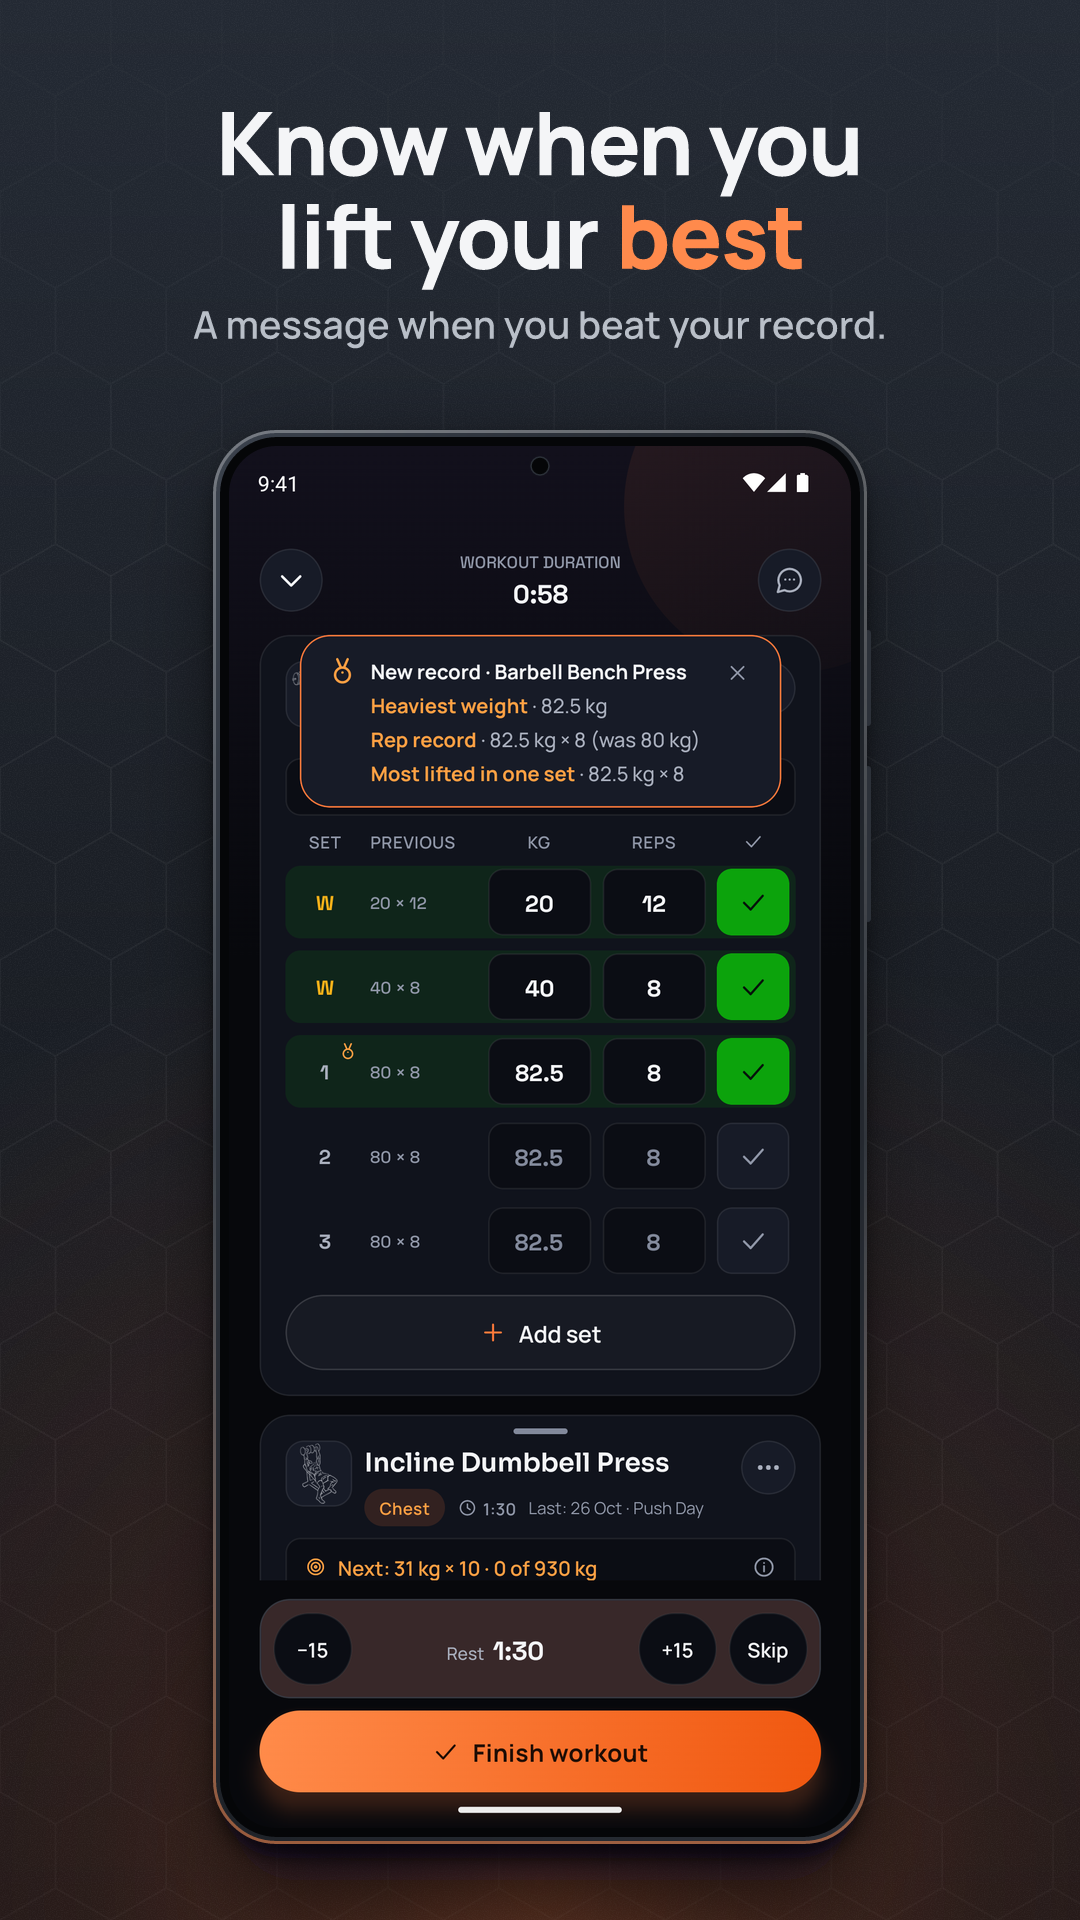
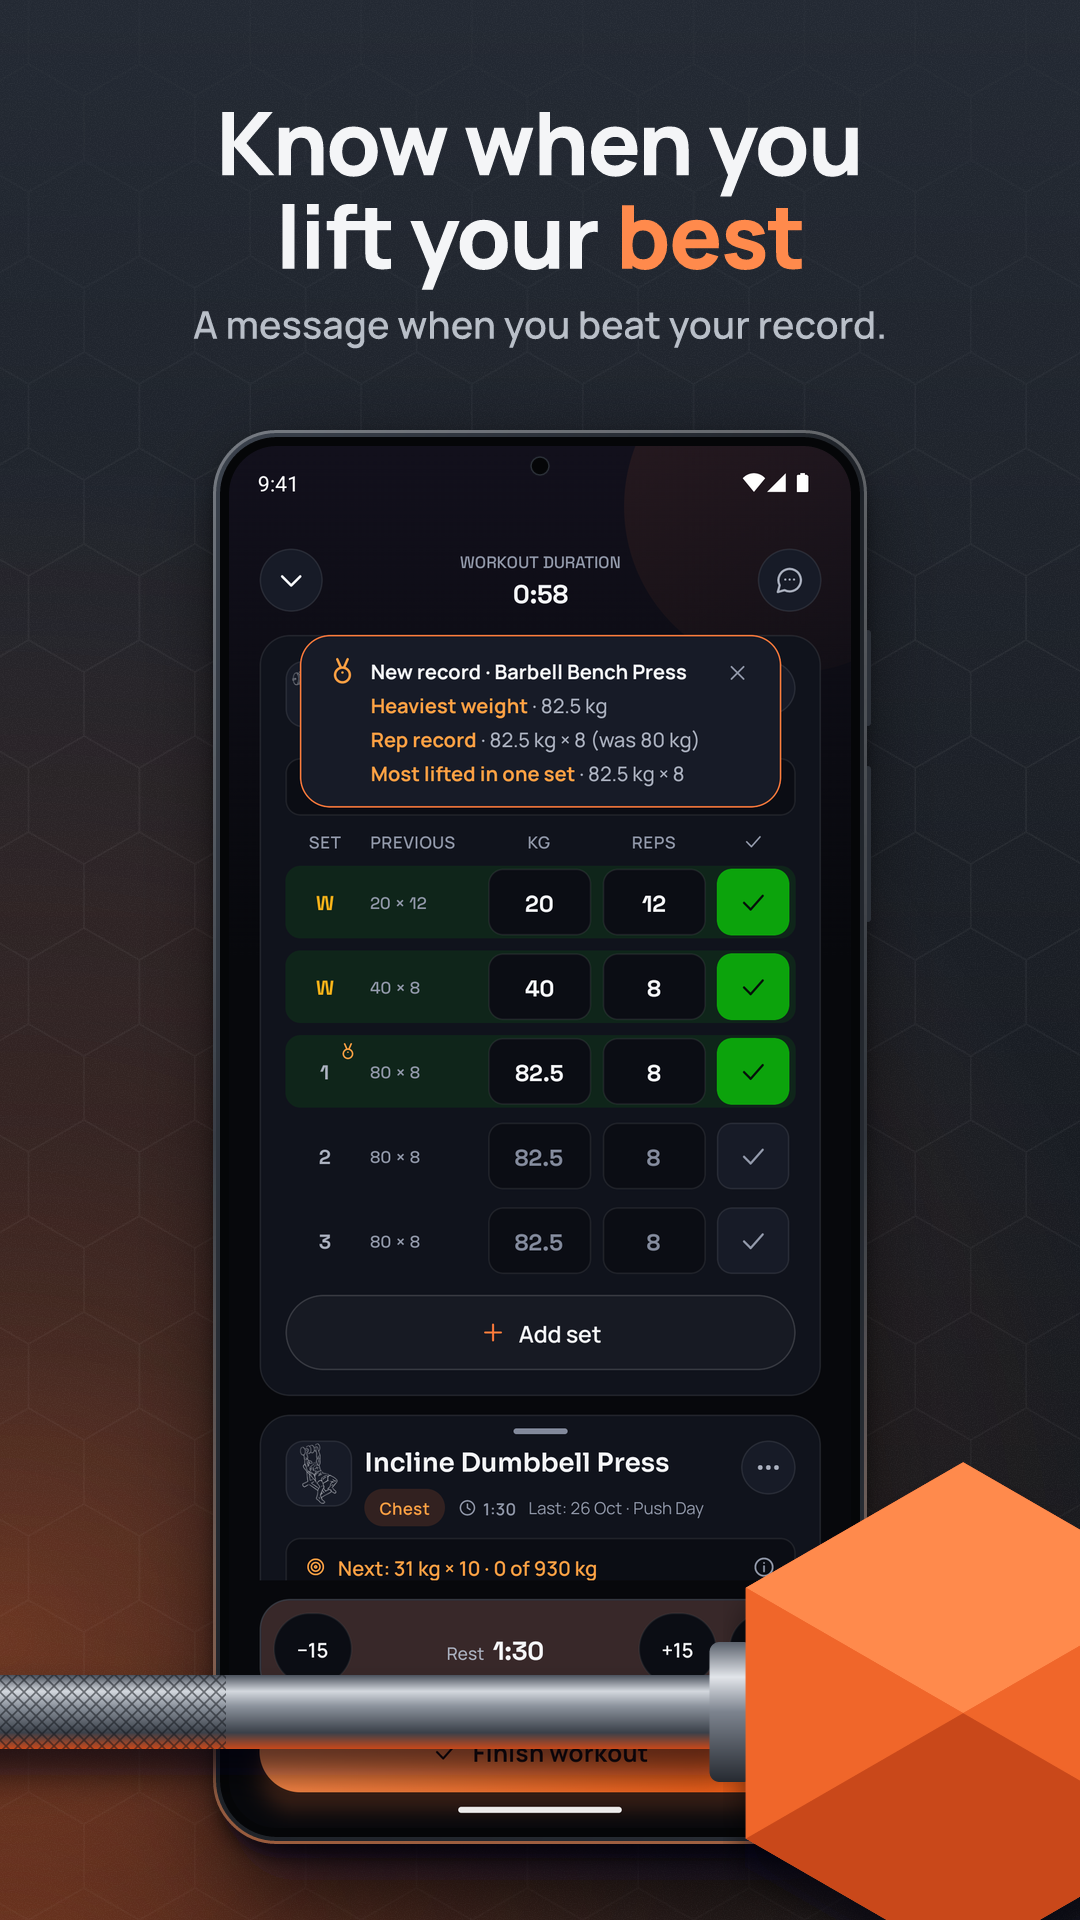
Play Store shots: bring back the barbell across shots 1 and 2 (R-252)
- captions.json: panorama [1, 2] again; shot-01/02 re-composed as one
  2160-wide artwork cut at x 1080 (panorama-01-02-2160.png restored).
  Shots 3-8 unchanged (pixel-identical).
- play_listing.py keeps 1 and 2 first; side-by-side test back (38 OK).
- Notes R-252: workout photos are never uploaded, so they use no server space.

Changed region(s): [[0.0, 0.5, 1.0, 1.0]]

diff --git a/scripts/ci/play_listing.py b/scripts/ci/play_listing.py
@@ -5,8 +5,9 @@
 
 Run by .github/workflows/play-listing.yml (manual). In one Play edit:
   1. deletes every en-US phone screenshot, then uploads branding/mettleup/store/out/shot-0N.png in
-     SCREENSHOT_ORDER (Play shows them in upload order). R-249 (31 Oct 2026): all 8, each a picture
-     on its own (no panorama pair any more), every caption checked against its screen.
+     SCREENSHOT_ORDER (Play shows them in upload order). R-249 (31 Oct 2026): all 8, every caption
+     checked against its screen. Shots 1 and 2 are the barbell panorama pair (R-252, the owner wants
+     it) and must sit first, side by side.
   2. replaces the feature graphic (1024x500) and the icon (512x512).
   3. --with-text: title, short and full description from branding/mettleup/store/listing-draft.txt.
   4. reads the screenshots back, names each by its SHA-256, and stops (nothing committed) unless the
@@ -25,7 +26,7 @@ from play_common import PACKAGE, fail, finish_edit, log, service  # noqa: E402
 
 ROOT = os.path.abspath(os.path.join(os.path.dirname(os.path.abspath(__file__)), "..", ".."))
 STORE = os.path.join(ROOT, "branding", "mettleup", "store")
-SCREENSHOT_ORDER = [1, 2, 3, 4, 5, 6, 7, 8]  # R-249: all 8, no panorama pair
+SCREENSHOT_ORDER = [1, 2, 3, 4, 5, 6, 7, 8]  # R-249: all 8; 1 + 2 are the panorama pair (R-252)
 FEATURE_GRAPHIC = os.path.join(STORE, "feature-graphic-1024x500.png")
 ICON = os.path.join(STORE, "play-icon-512.png")
 LISTING_TEXT = os.path.join(STORE, "listing-draft.txt")

diff --git a/scripts/ci/test_play_scripts.py b/scripts/ci/test_play_scripts.py
@@ -4,6 +4,7 @@
 Run: python3 -m unittest discover -s scripts/ci -p 'test_*.py'   (or pytest scripts/ci)
 No Google library is needed: the scripts import those inside the functions that call Play.
 """
+import json
 import os
 import struct
 import sys
@@ -205,10 +206,15 @@ class ReviewRefusals(unittest.TestCase):
 
 class ScreenshotOrder(unittest.TestCase):
     def test_all_eight_in_order(self):
-        # R-249: every shot stands alone; no panorama pair to keep side by side.
         self.assertEqual(pl.SCREENSHOT_ORDER, [1, 2, 3, 4, 5, 6, 7, 8])
         names = [os.path.basename(p) for p in pl.screenshot_paths()]
         self.assertEqual(names, [f"shot-0{n}.png" for n in range(1, 9)])
+
+    def test_panorama_pair_comes_first_side_by_side(self):
+        # R-252: the owner wants the barbell artwork across shots 1 and 2.
+        self.assertEqual(pl.SCREENSHOT_ORDER[:2], [1, 2])
+        with open(os.path.join(pl.STORE, "captions.json"), encoding="utf-8") as fh:
+            self.assertEqual(json.load(fh)["panorama"], [1, 2])
 
     def test_committed_files_pass_plays_rules(self):
         for p in pl.screenshot_paths():

diff --git a/docs/CLAUDE-NOTES.md b/docs/CLAUDE-NOTES.md
@@ -7,6 +7,12 @@ backlog. Newest on top. Entries 3-21 were moved here from docs/OWNER-INBOX.md wi
 
 Older entries are moved automatically (scripts/trim_notes.py, newest 40 kept here) to docs/CLAUDE-NOTES-ARCHIVE.md: grep it before saying something was never said.
 
+## R-252. Bring back the picture across Play shots 1 and 2; is the after-workout photo compressed? — 31 Oct 2026
+
+He said: "we actually wanted to do that little thing with, you know, a picture running across two screenshots. That's something I really wanted to do. So I don't know why you took it away... bring that back". The rest of the new pictures and captions are fine. Also: "we are giving users the option to take a picture at the end of their workout and maybe share it but I wonder how much space it will take up on the free server. Are we doing any kind of compression before saving it online?"
+
+Did: panorama [1, 2] back in store/captions.json (shots 1 + 2 = one artwork, cut at x 1080), re-composed, play_listing keeps 1 and 2 first; the side-by-side test is back. Not uploaded (still waits for his yes). Photo answer: workout photos are never uploaded (workoutPhotos.ts: kept on the phone only, shared through the phone's own share menu), so they use 0 bytes of our server. On the phone they are saved at 85 % JPEG quality, full size; the optional Google Drive photo backup (the member's own Drive) shrinks each to 1080 px, 70 % (~100-250 KB).
+
 ## R-251. Backlog: a guided flow for new users to make their first routine in a folder — 31 Oct 2026
 
 He said: "Add to your feature backlog, we will need to build a guided flow for new users to create a new routine in a folder." Then: "Add it."

diff --git a/branding/mettleup/BRAND.md b/branding/mettleup/BRAND.md
@@ -172,5 +172,5 @@ renders `brand/*.png` from `brand/mark.svg`. Use one or the other; whichever run
 Tagline: **Stronger every week.**
 
 The 8 screenshot captions live in ONE place: `store/captions.json` (headline, sub line, and the screen
-each one shows). R-249, 31 Oct 2026: each shot stands alone (no panorama pair); the pictures come from
+each one shows). Shots 1 and 2 are the panorama pair: one artwork across both (R-252). The pictures come from
 the store-shots run named in its `_source` line. Never copy them here: a second list drifts.
